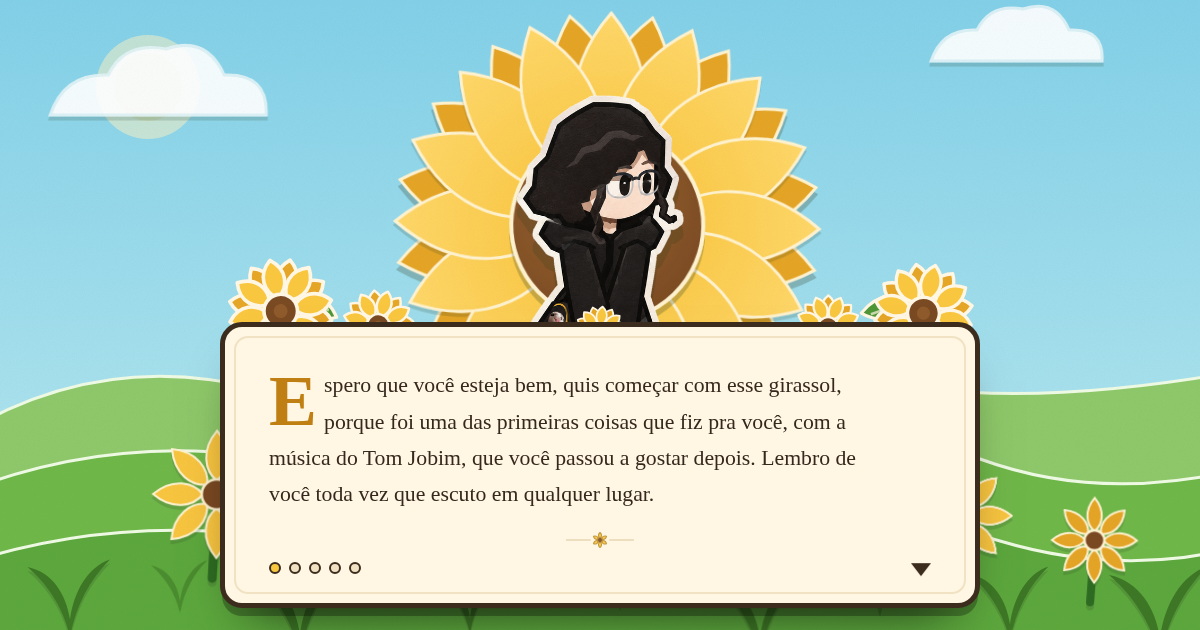
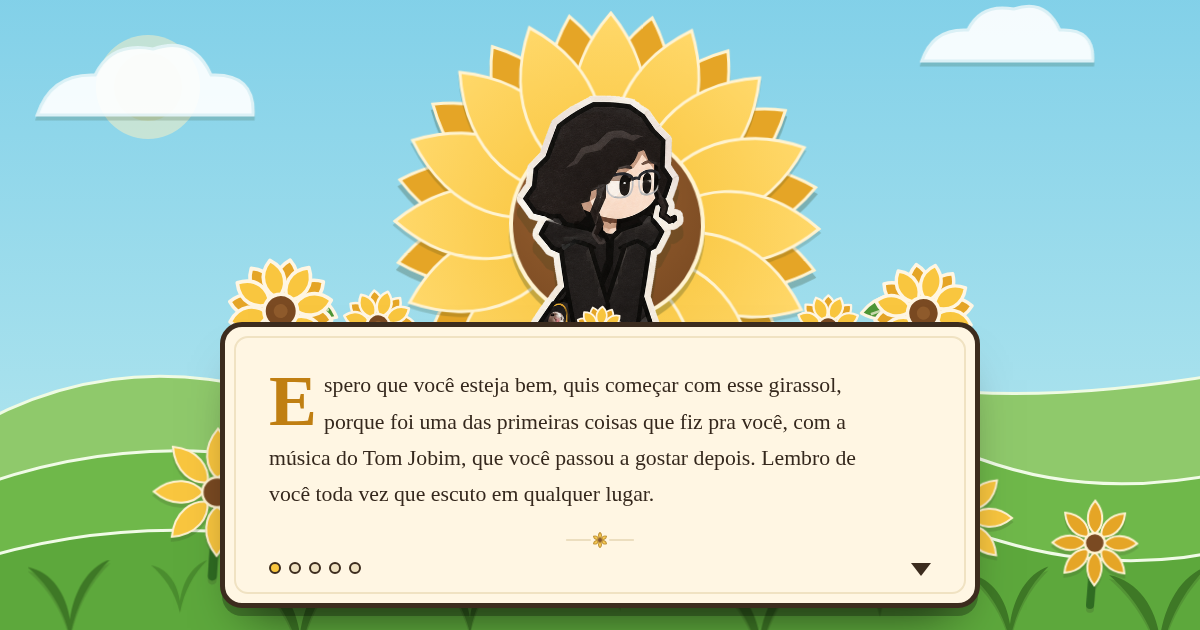
Add files via upload

diff --git a/index.html b/index.html
@@ -86,10 +86,7 @@
 
 
   /* ---------- parallax nas trocas de cena ---------- */
-  .cena{
-    transform-origin: center center;
-    will-change: transform;
-  }
+  .cena{ transform-origin: center center; }
   .cena::after{
     content: "";
     position: absolute;
@@ -99,7 +96,9 @@
     pointer-events: none;
     z-index: 12;
   }
-  .cena > svg{ will-change: transform; }
+
+  .cena.dormindo *{ animation-play-state: paused !important; }
+  .cena:not(.dormindo), .cena:not(.dormindo) > svg{ will-change: transform; }
 
   .passo{ height: 92svh; }
   .cena.noite{ background: #3A3356; }
@@ -414,7 +413,6 @@
     width: min(340px, 58%);
     transform: translate(-50%, calc(-50% + 26svh)) rotate(7deg) scale(.86);
     filter: drop-shadow(0 16px 24px rgba(90,60,40,.32));
-    will-change: transform;
   }
   .envelope > svg{ width: 100%; height: auto; display: block; }
 
@@ -901,10 +899,6 @@
         <filter id="recorteLeve" x="-14%" y="-14%" width="132%" height="132%">
           <feDropShadow dx="0" dy="4" stdDeviation="0" flood-color="#2B3C1A" flood-opacity=".18"/>
         </filter>
-        <filter id="grao">
-          <feTurbulence type="fractalNoise" baseFrequency="0.9" numOctaves="3"/>
-          <feColorMatrix type="saturate" values="0"/>
-        </filter>
 
         <path id="petala" d="M600,214 C641,182 654,112 600,48 C546,112 559,182 600,214 Z"/>
         <g id="tufo">
@@ -1075,7 +1069,6 @@
         <circle class="polen-b" cx="330" cy="430" r="3.5" style="animation-delay:-2s"/>
       </g>
 
-      <rect width="1200" height="700" filter="url(#grao)" opacity=".07" style="mix-blend-mode:multiply"/>
     </svg>
 
     <!-- a garota -->
@@ -1191,10 +1184,6 @@
         </filter>
         <filter id="recorteQLeve" x="-16%" y="-16%" width="136%" height="136%">
           <feDropShadow dx="0" dy="4" stdDeviation="0" flood-color="#140F26" flood-opacity=".36"/>
-        </filter>
-        <filter id="grao2">
-          <feTurbulence type="fractalNoise" baseFrequency="0.9" numOctaves="3"/>
-          <feColorMatrix type="saturate" values="0"/>
         </filter>
 
         <filter id="luarNoMenino" x="-16%" y="-16%" width="132%" height="132%">
@@ -1343,7 +1332,6 @@
         <circle class="polen-b" cx="930" cy="440" r="3" style="animation-delay:-3s"/>
       </g>
 
-      <rect width="1200" height="700" filter="url(#grao2)" opacity=".08" style="mix-blend-mode:multiply"/>
     </svg>
 
     <div class="fala-bloco">
@@ -1446,10 +1434,6 @@
         </filter>
         <filter id="recortePLeve" x="-16%" y="-16%" width="136%" height="136%">
           <feDropShadow dx="0" dy="4" stdDeviation="0" flood-color="#1A0F0C" flood-opacity=".38"/>
-        </filter>
-        <filter id="grao3">
-          <feTurbulence type="fractalNoise" baseFrequency="0.9" numOctaves="3"/>
-          <feColorMatrix type="saturate" values="0"/>
         </filter>
       </defs>
 
@@ -1560,7 +1544,6 @@
         <circle class="polen-b" cx="480" cy="230" r="3" style="animation-delay:-3s"/>
       </g>
 
-      <rect width="1200" height="700" filter="url(#grao3)" opacity=".09" style="mix-blend-mode:multiply"/>
     </svg>
 
     <div class="fala-bloco">
@@ -1636,10 +1619,6 @@
         <filter id="recorteF" x="-20%" y="-20%" width="140%" height="140%">
           <feDropShadow dx="0" dy="5" stdDeviation="4" flood-color="#4A3A2A" flood-opacity=".3"/>
         </filter>
-        <filter id="grao4">
-          <feTurbulence type="fractalNoise" baseFrequency="0.85" numOctaves="4"/>
-          <feColorMatrix type="saturate" values="0"/>
-        </filter>
       </defs>
 
       <rect width="1200" height="700" fill="url(#mesa)"/>
@@ -1687,7 +1666,6 @@
         </g>
       </g>
 
-      <rect width="1200" height="700" filter="url(#grao4)" opacity=".1" style="mix-blend-mode:multiply"/>
     </svg>
 
     <div class="recado-papel">
@@ -1738,16 +1716,11 @@
         <filter id="recorteG5Leve" x="-16%" y="-16%" width="136%" height="136%">
           <feDropShadow dx="0" dy="4" stdDeviation="0" flood-color="#B2664A" flood-opacity=".2"/>
         </filter>
-        <filter id="grao5">
-          <feTurbulence type="fractalNoise" baseFrequency="0.9" numOctaves="3"/>
-          <feColorMatrix type="saturate" values="0"/>
-        </filter>
       </defs>
 
       <rect width="1200" height="700" fill="url(#fundoGato)"/>
       <rect width="1200" height="700" fill="url(#patinhas)"/>
 
-      <rect width="1200" height="700" filter="url(#grao5)" opacity=".07" style="mix-blend-mode:multiply"/>
     </svg>
 
     <div class="fala-bloco">
@@ -1785,10 +1758,6 @@
           <stop offset="72%"  stop-color="#FBDCC6"/>
           <stop offset="100%" stop-color="#FFD2BC"/>
         </linearGradient>
-        <filter id="grao6">
-          <feTurbulence type="fractalNoise" baseFrequency="0.9" numOctaves="3"/>
-          <feColorMatrix type="saturate" values="0"/>
-        </filter>
       </defs>
 
       <rect width="1200" height="700" fill="url(#ceuCarta)"/>
@@ -1810,7 +1779,6 @@
         <circle class="polen-b" cx="1080" cy="90" r="3" style="animation-delay:-5s"/>
       </g>
 
-      <rect width="1200" height="700" filter="url(#grao6)" opacity=".06" style="mix-blend-mode:multiply"/>
     </svg>
 
     <div class="envelope" id="envelope">
@@ -1891,6 +1859,20 @@
 </section>
 
 <script>
+  /* tudo que reage à rolagem passa por aqui: um ouvinte só, um cálculo por quadro */
+  const NA_ROLAGEM = [];
+  let quadroAgendado = false;
+  function aoRolar(){
+    if (quadroAgendado) return;
+    quadroAgendado = true;
+    requestAnimationFrame(() => {
+      quadroAgendado = false;
+      for (const f of NA_ROLAGEM) f();
+    });
+  }
+  addEventListener('scroll', aoRolar, { passive: true });
+  addEventListener('resize', aoRolar);
+
   const CENAS = [
     { ato: 'ato1', falas: [
       'Espero que você esteja bem, quis começar com esse girassol, porque foi uma das primeiras coisas que fiz pra você, com a música do Tom Jobim, que você passou a gostar depois. Lembro de você toda vez que escuto em qualquer lugar.',
@@ -1972,12 +1954,66 @@
 
     mostrar(0);
     if (n > 1){
-      addEventListener('scroll', acompanhar, { passive: true });
-      addEventListener('resize', acompanhar);
+      NA_ROLAGEM.push(acompanhar);
     }
   });
 
 
+
+
+  /* ---------- sombras de papel sem filtro ----------
+     feDropShadow custa caro no celular: cada grupo filtrado obriga o navegador
+     a redesenhar tudo num buffer à parte. Como as sombras daqui não têm desfoque,
+     dá pra fazer o mesmo efeito duplicando o recorte deslocado por baixo. */
+  (function(){
+    const SOMBRAS = {
+      recorte:      { dy: 7, cor: '#2B3C1A', op: .26 },
+      recorteLeve:  { dy: 4, cor: '#2B3C1A', op: .18 },
+      recorteQ:     { dy: 7, cor: '#140F26', op: .50 },
+      recorteQLeve: { dy: 4, cor: '#140F26', op: .36 },
+      recorteP:     { dy: 7, cor: '#1A0F0C', op: .50 },
+      recortePLeve: { dy: 4, cor: '#1A0F0C', op: .38 },
+      recorteG5:    { dy: 7, cor: '#B2664A', op: .26 },
+      recorteG5Leve:{ dy: 4, cor: '#B2664A', op: .20 }
+    };
+
+    function pintar(no, cor, raiz){
+      const f = no.getAttribute('fill');
+      /* na raiz a cor é imposta pra descer por herança; nos filhos só onde já havia cor,
+         senão um fill="none" herdado vira mancha */
+      if (f !== 'none' && (raiz || f)) no.setAttribute('fill', cor);
+      const t = no.getAttribute('stroke');
+      if (t && t !== 'none') no.setAttribute('stroke', cor);
+      no.removeAttribute('filter');
+      no.removeAttribute('opacity');
+      no.removeAttribute('fill-opacity');
+      no.removeAttribute('stroke-opacity');
+      no.removeAttribute('style');
+      no.removeAttribute('class');
+      no.removeAttribute('mask');
+    }
+
+    const alvos = [...document.querySelectorAll('.cena svg g[filter]')].filter(g => {
+      const m = /url\(#([^)]+)\)/.exec(g.getAttribute('filter') || '');
+      return m && SOMBRAS[m[1]];
+    });
+
+    const marcados = alvos.map(g => {
+      const id = /url\(#([^)]+)\)/.exec(g.getAttribute('filter'))[1];
+      g.removeAttribute('filter');
+      return [g, SOMBRAS[id]];
+    });
+
+    for (const [g, s] of marcados){
+      const copia = g.cloneNode(true);
+      pintar(copia, s.cor, true);
+      copia.querySelectorAll('*').forEach(n => pintar(n, s.cor, false));
+      const antes = g.getAttribute('transform');
+      copia.setAttribute('transform', (antes ? antes + ' ' : '') + 'translate(0 ' + s.dy + ')');
+      copia.setAttribute('opacity', s.op);
+      g.parentNode.insertBefore(copia, g);
+    }
+  })();
 
   /* ---------- parallax: a cena que sai fica pra trás, o fundo anda mais devagar ---------- */
   (function(){
@@ -1997,25 +2033,28 @@
 
         /* saindo: a cena fica pra trás enquanto a próxima sobe por cima */
         const saida = suavizar(limitar((H - r.bottom) / H));
-        c.style.transform = saida > 0
-          ? 'translateY(' + (saida * 20).toFixed(2) + '%) scale(' + (1 + saida * 0.05).toFixed(4) + ')'
-          : '';
+        c.style.transform = saida > 0 ? 'translateY(' + (saida * 20).toFixed(2) + '%)' : '';
         c.style.setProperty('--veu', (saida * 0.5).toFixed(3));
 
         /* entrando: o fundo sobe mais devagar que a moldura */
         const f = fundos[i];
         if (f){
           const entrada = limitar(r.top / H);
-          f.style.transform = entrada > 0
-            ? 'translateY(' + (-entrada * 11).toFixed(2) + '%) scale(' + (1 + entrada * 0.06).toFixed(4) + ')'
-            : '';
+          f.style.transform = entrada > 0 ? 'translateY(' + (-entrada * 11).toFixed(2) + '%)' : '';
         }
       }
     }
 
     parallax();
-    addEventListener('scroll', parallax, { passive: true });
-    addEventListener('resize', parallax);
+    NA_ROLAGEM.push(parallax);
+
+    /* cenas longe da tela param de animar */
+    if ('IntersectionObserver' in window){
+      const olho = new IntersectionObserver(ls => {
+        for (const l of ls) l.target.classList.toggle('dormindo', !l.isIntersecting);
+      }, { rootMargin: '40% 0px' });
+      cenas.forEach(c => { if (c){ c.classList.add('dormindo'); olho.observe(c); } });
+    }
   })();
 
   /* ---------- o envelope sobe conforme a tela desce ---------- */
@@ -2043,8 +2082,7 @@
     }
 
     voar();
-    addEventListener('scroll', voar, { passive: true });
-    addEventListener('resize', voar);
+    NA_ROLAGEM.push(voar);
   })();
 
 
